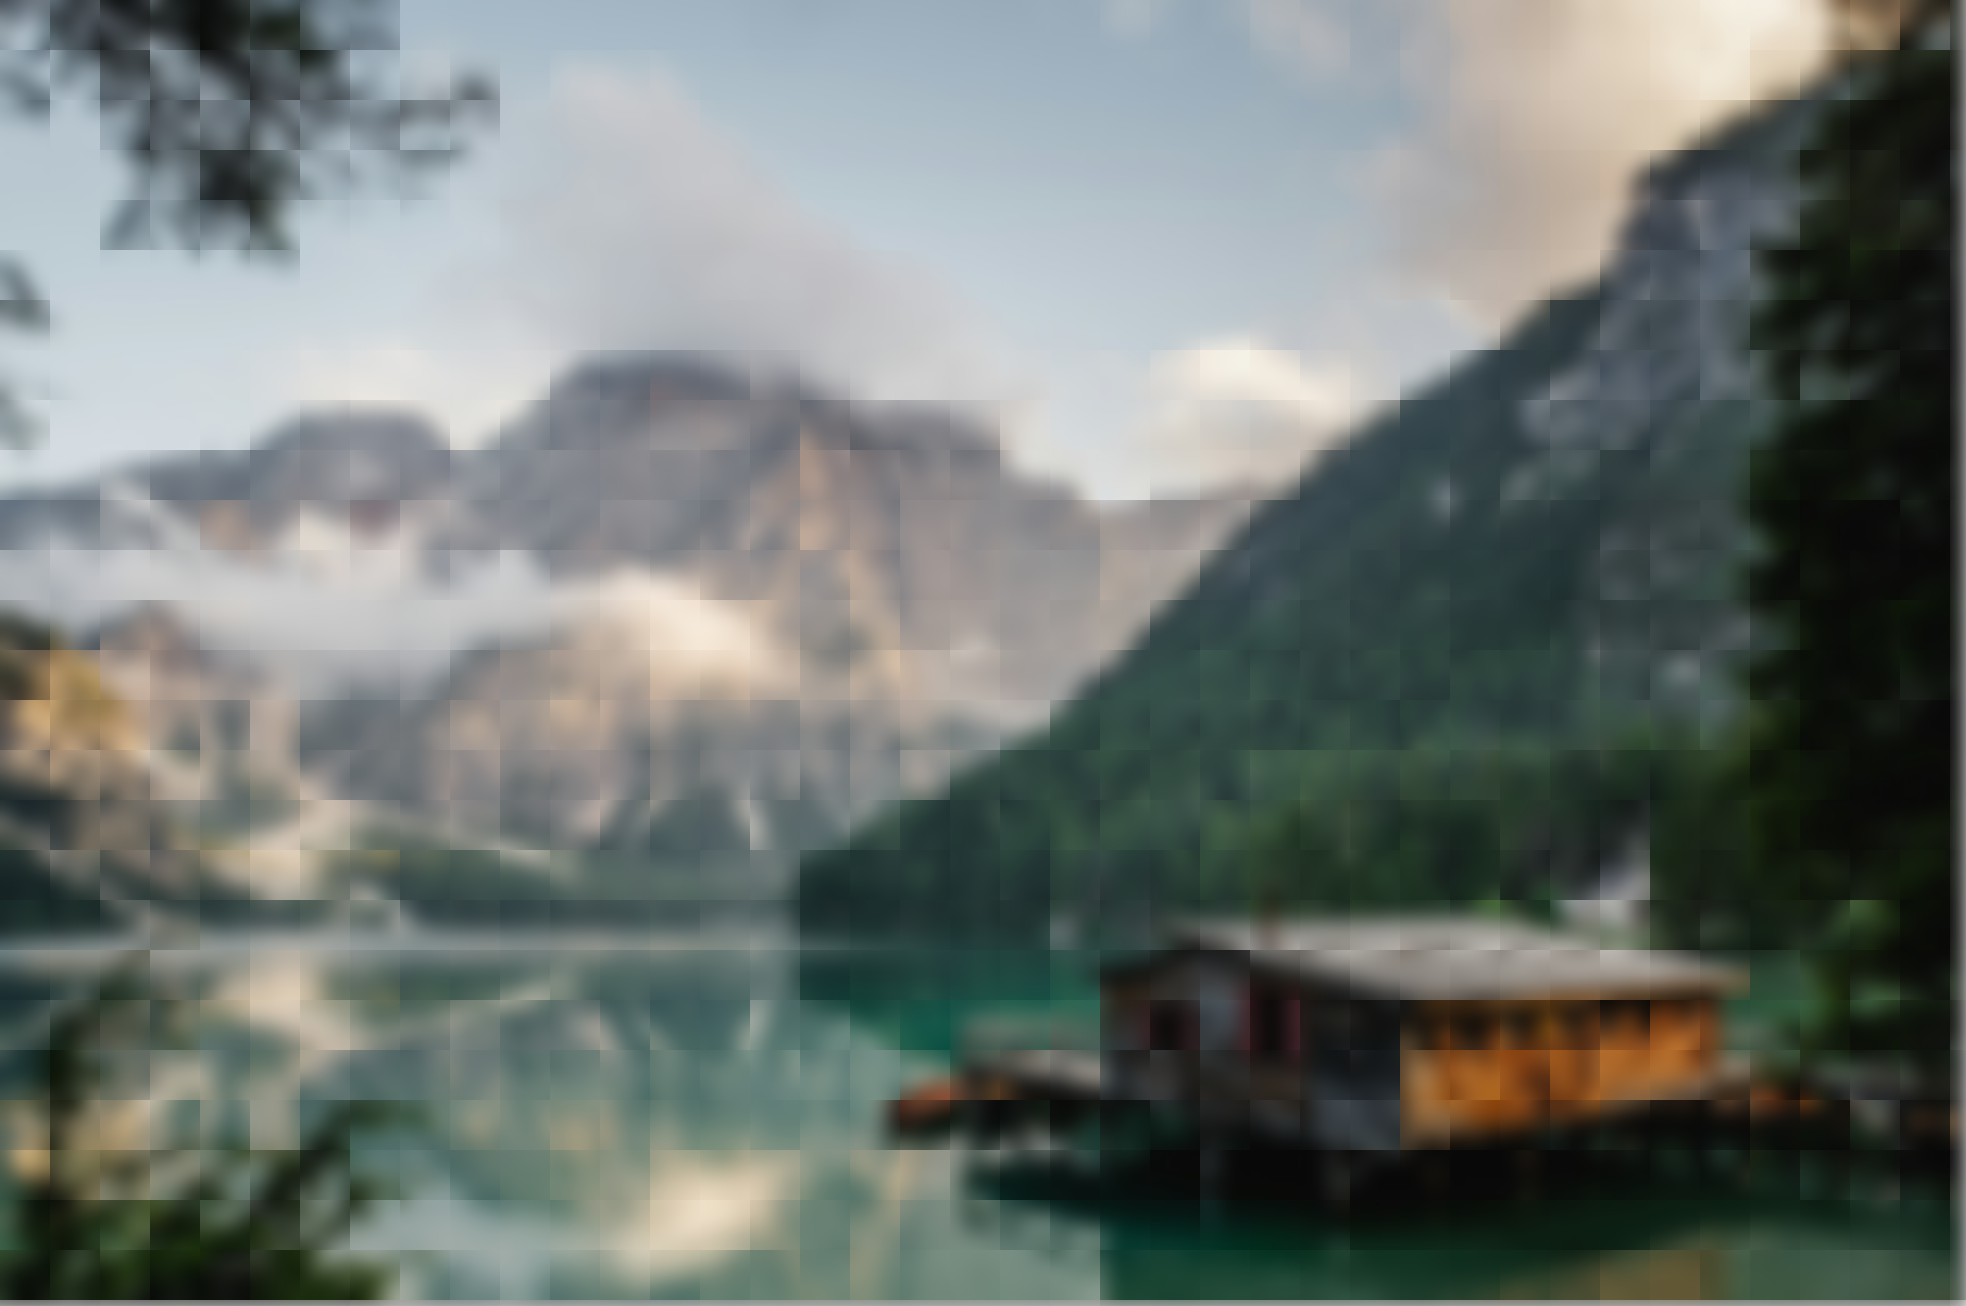
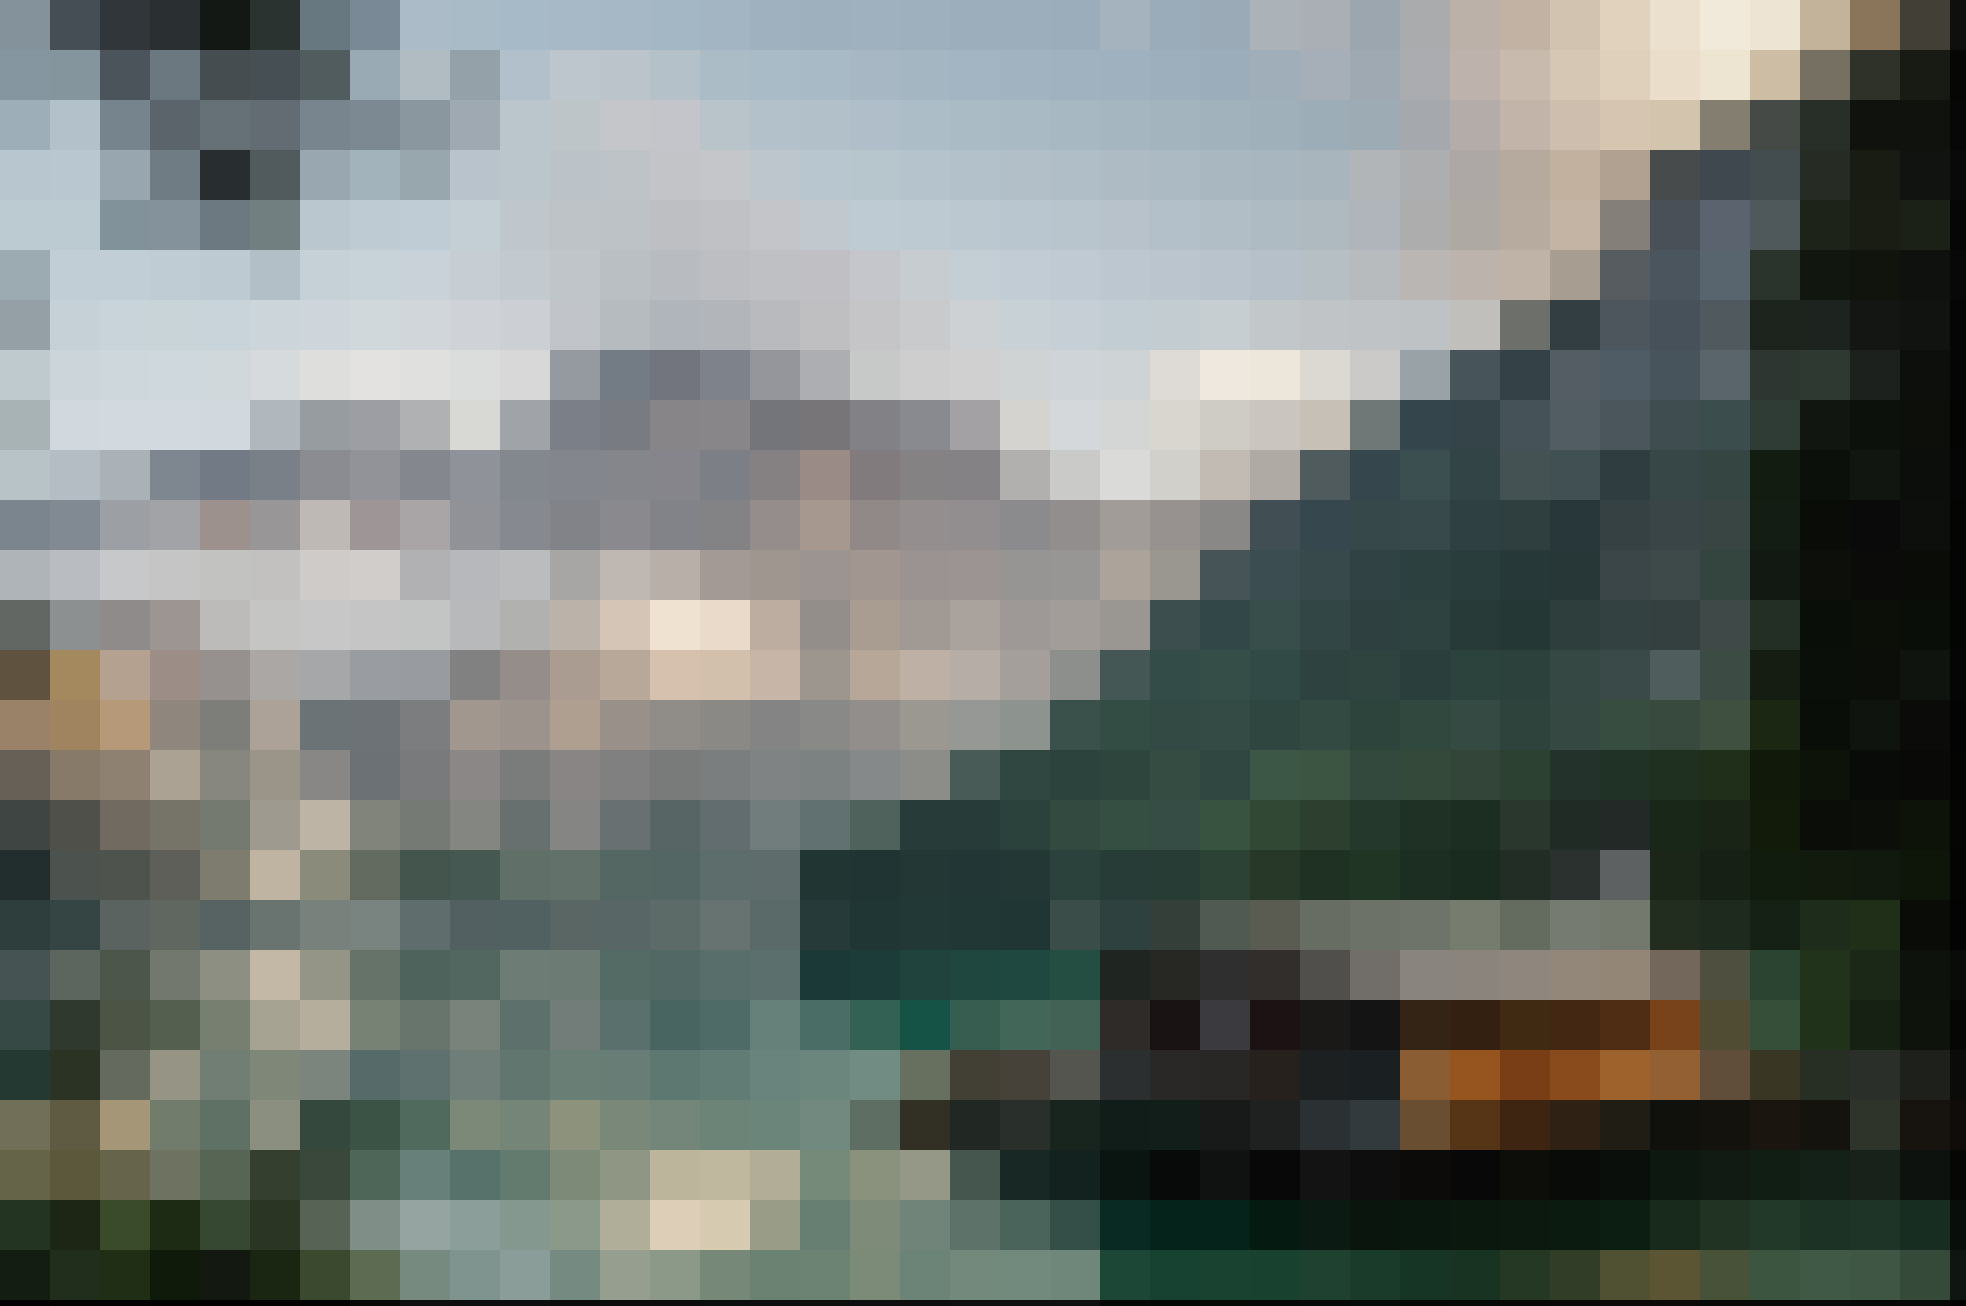
looked better mosaic

diff --git a/src/project.py b/src/project.py
@@ -7,6 +7,7 @@ class TurnMosaic:
         self.image_name = image_name
         self.mosaic_size = mosaic_size
     
+
     def load_image(self):
         try:
             self.image = Image.open(self.image_name)
@@ -15,6 +16,7 @@ class TurnMosaic:
             print(f"Error: Image '{self.image_name}' not found.")
             return False
         
+
     def create_mosaic(self):
         #Solves: AttributeError: 'TurnMosaic' object has no attribute 'image'
         if not hasattr(self, 'image'):
@@ -26,12 +28,23 @@ class TurnMosaic:
             for x in range(0, width, self.mosaic_size):
                 #Create the region to blur
                 box = (x, y, x + self.mosaic_size, y + self.mosaic_size)
-
                 box_region = self.image.crop(box)
 
-                blurred_region = box_region.filter(ImageFilter.GaussianBlur(radius=15))
+                #(Blurred Version)
+                #blurred_region = box_region.filter(ImageFilter.GaussianBlur(radius=15))
+                #self.image.paste(blurred_region, box)
 
-                self.image.paste(blurred_region, box)
+                #(Single Color Version)
+                average_color = self.calculate_average_color(box_region)
+                solid_color_image = Image.new('RGB',(self.mosaic_size, self.mosaic_size), average_color)
+                self.image.paste(solid_color_image, box)
+
+
+    def calculate_average_color(self, image):
+        # Calculate the average color of the image
+        total_average_color = tuple(int(sum(colors) / len(colors)) for colors in zip(*image.getdata()))
+        return total_average_color
+            
     
     def save_mosaic(self, output_name):
         if hasattr(self, 'image'):
